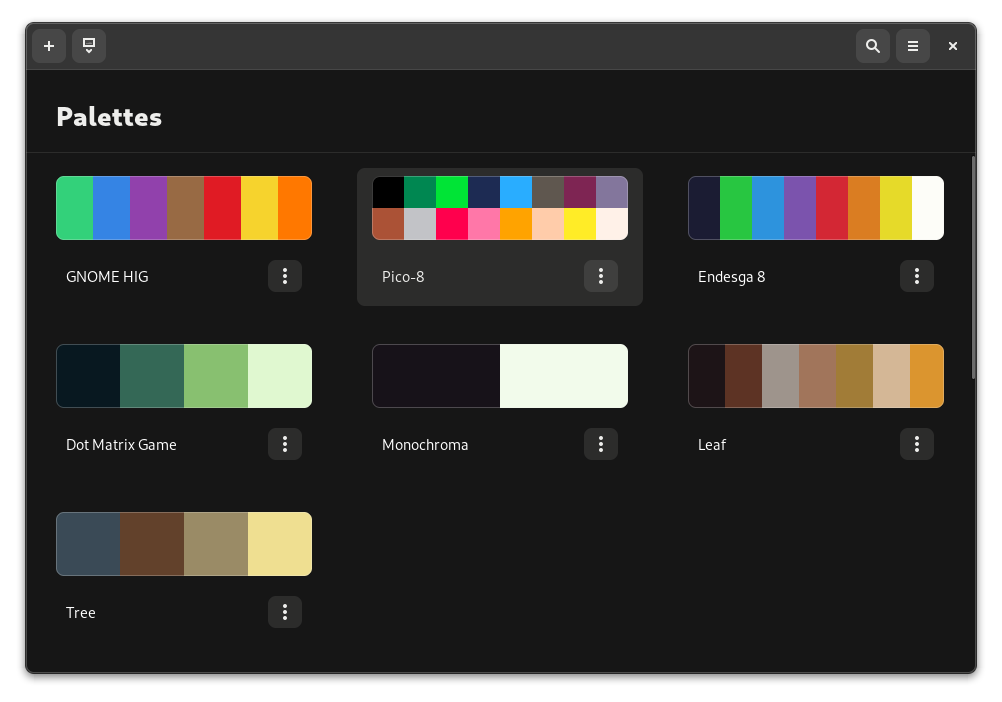
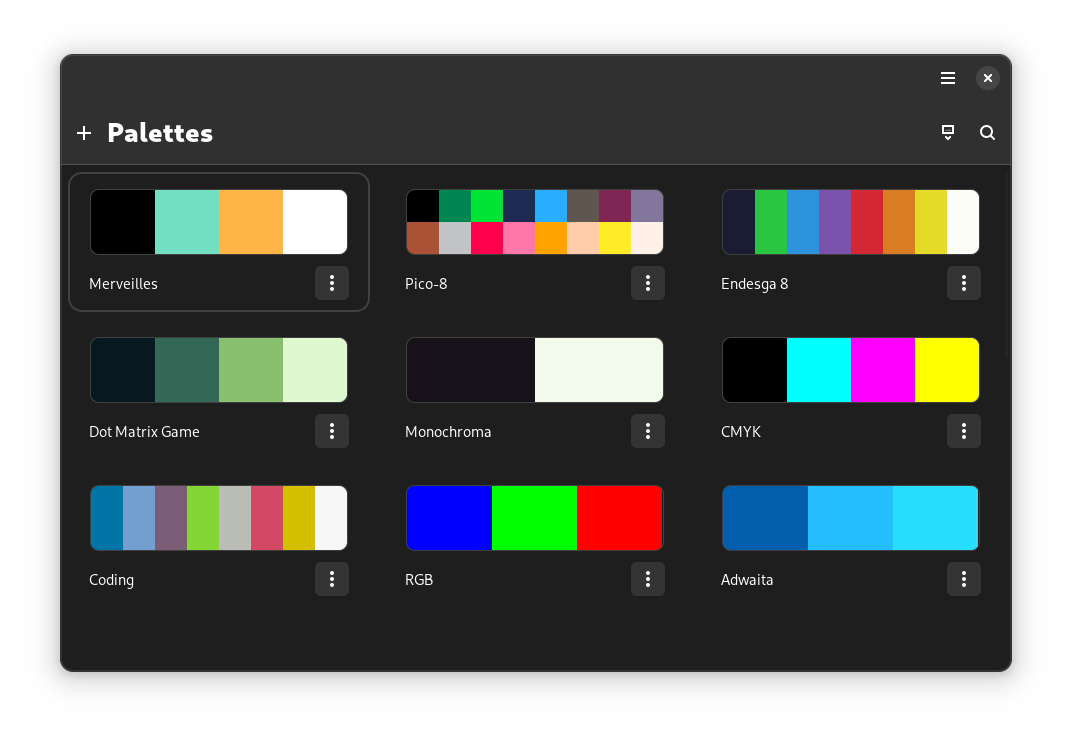
3.1.0 - Major UI style changes

diff --git a/data/style.css b/data/style.css
@@ -73,18 +73,20 @@ gridview child:selected .color-box {
 .nw-title-box {
   border-bottom: 1px solid @borders;
   background: shade(@theme_bg_color, 0.95);
-  margin-bottom: 12px;
 }
 .nw-title-box entry:not(.nw-search-box) {
   background: none;
   box-shadow: none;
-  padding: 6px;
+  padding: 8px;
+  padding-top: 0px;
+  padding-bottom: 0px;
   border: none;
+  border-bottom: 2px solid @borders;
+  border-radius: 0px;
 }
 .nw-search-box box {
   background: shade(@theme_bg_color, 0.9);
   border: none;
-  border-top: 1px solid @borders;
 }
 .nw-search-box box:backdrop {
   background: shade(@theme_bg_color, 0.98);
@@ -97,7 +99,10 @@ gridview child:selected .color-box {
   background: shade(@theme_bg_color, 1.05);
   color: alpha(@theme_fg_color, 0.66);
 }
-
+.nw-header-button:not(:hover):not(:active),
+.nw-header-button .toggle:not(:hover):not(:active):not(:checked) {
+  background: none;
+}
 .nw-color-label {
   font-size: 1.33rem;
   font-weight: 700;

diff --git a/data/style-dark.css b/data/style-dark.css
@@ -1,5 +1,5 @@
 .nw-view {
-    background: shade(@theme_bg_color, 0.1);
+  background: @theme_base_color;
 }
 
 .nw-title-box {
@@ -20,7 +20,6 @@
 }
 
 .nw-search-box entry {
-  background: shade(@theme_bg_color, 0.1);
+  background: shade(@theme_bg_color, 0.5);
 }
-
 
